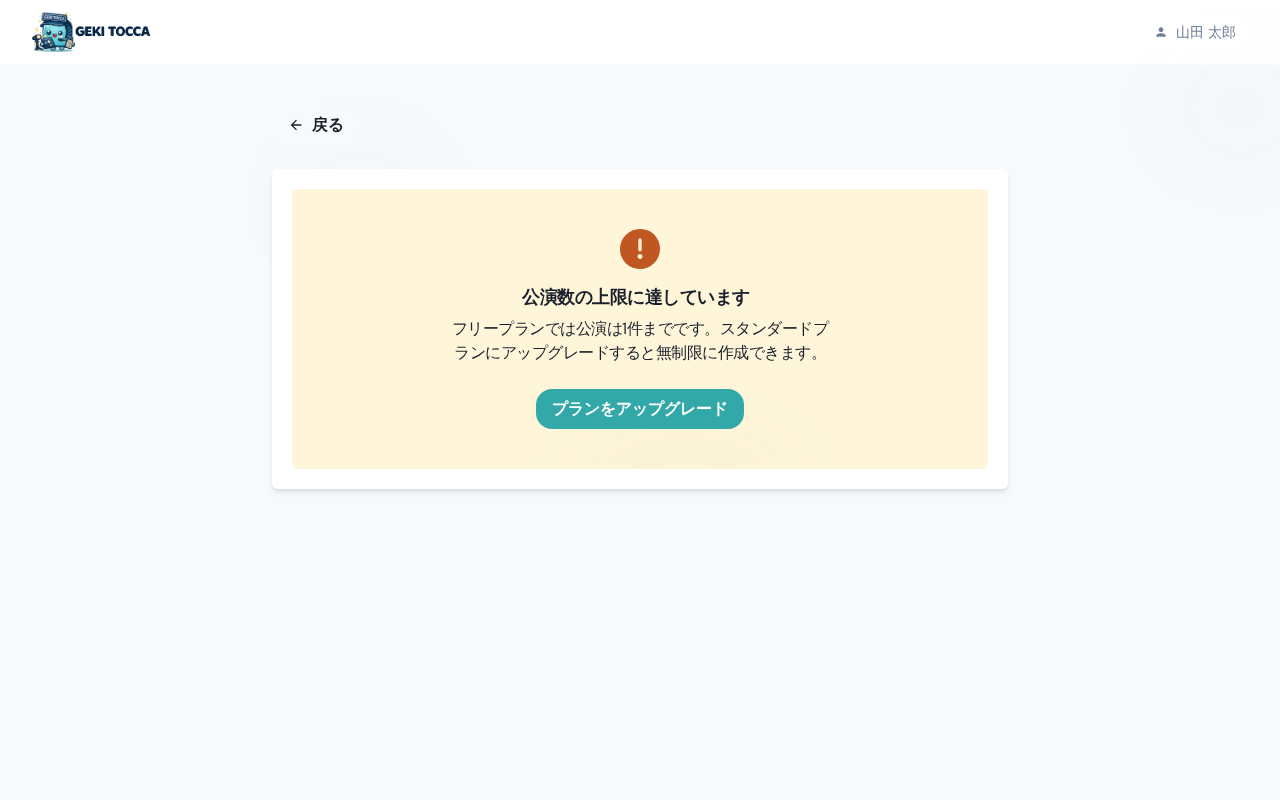
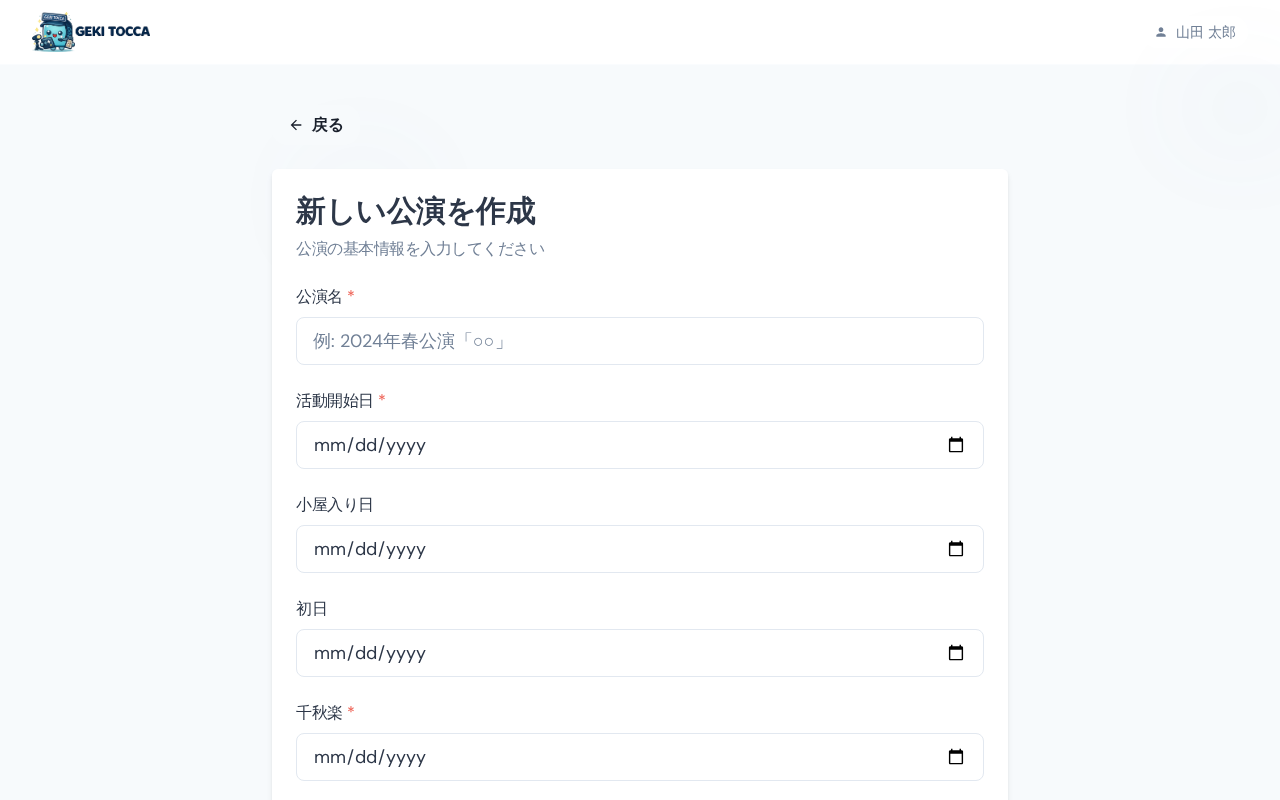
feat: 使い方ガイドへのナビゲーションリンク追加 + 公演作成スクリーンショット修正

diff --git a/src/components/Header.tsx b/src/components/Header.tsx
@@ -74,6 +74,7 @@ function MobileNavigation() {
       >
         <MobileNavLink href="#features">機能</MobileNavLink>
         <MobileNavLink href="#pricing">料金</MobileNavLink>
+        <MobileNavLink href="/guide">使い方</MobileNavLink>
         <hr className="m-2 border-slate-300/40" />
         <MobileNavLink href="https://gekiapp.tocca.systems/auth/sign-in">ログイン</MobileNavLink>
       </PopoverPanel>
@@ -93,6 +94,7 @@ export function Header() {
             <div className="hidden md:flex md:gap-x-6">
               <NavLink href="#features">機能</NavLink>
               <NavLink href="#pricing">料金</NavLink>
+              <NavLink href="/guide">使い方</NavLink>
             </div>
           </div>
           <div className="flex items-center gap-x-5 md:gap-x-8">

diff --git a/src/components/Footer.tsx b/src/components/Footer.tsx
@@ -15,6 +15,7 @@ export function Footer() {
             <div className="-my-1 flex flex-wrap justify-center gap-x-6 gap-y-2">
               <NavLink href="#features">機能</NavLink>
               <NavLink href="#pricing">料金</NavLink>
+              <NavLink href="/guide">使い方</NavLink>
               <NavLink href="/legal/terms">利用規約</NavLink>
               <NavLink href="/legal/privacy">プライバシーポリシー</NavLink>
             </div>
